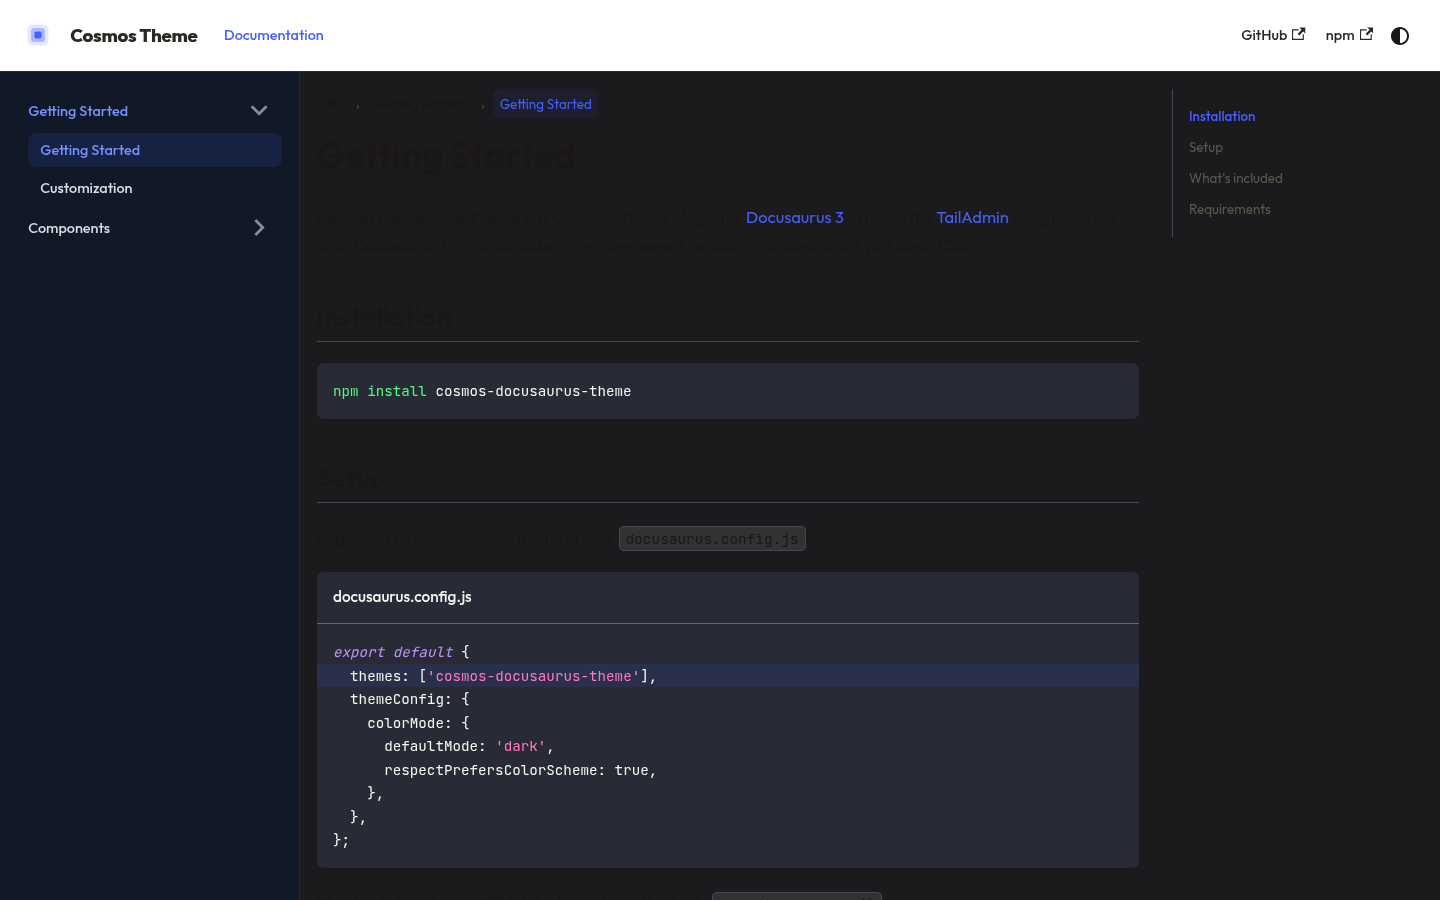
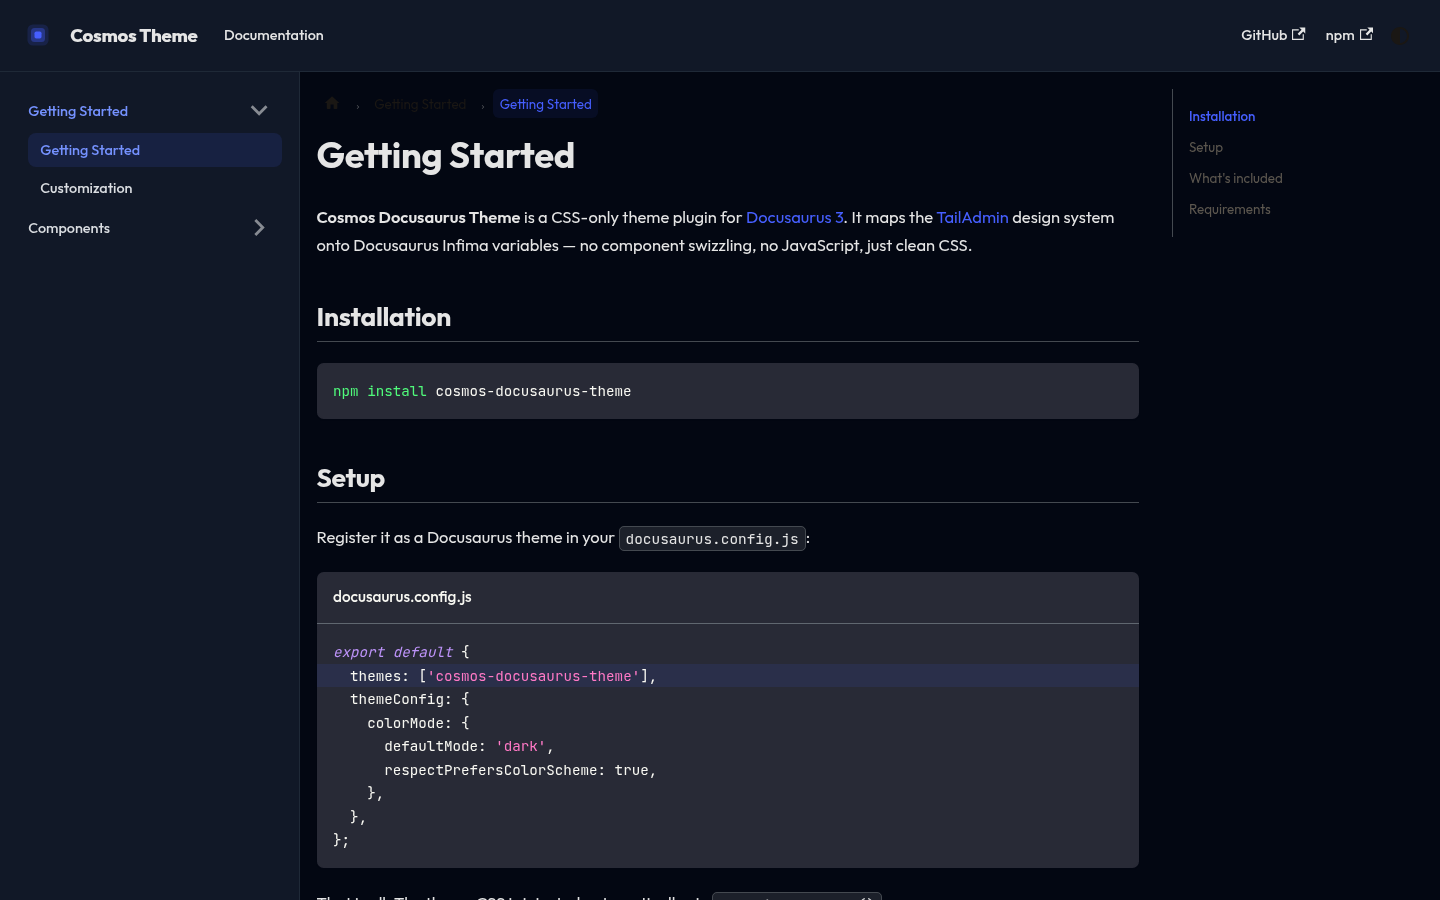
fix(dark-mode): force direct CSS on navbar — fix white header regression
CSS variables alone are unreliable for navbar background/text in Docusaurus 3
SSG builds. Add concrete property overrides as fallback:

  [data-theme='dark'] .navbar { background-color: #111827; }
  [data-theme='dark'] .navbar__link { color: #e5e5e5; }
  [data-theme='dark'] .footer { background-color: #030712; }
  [data-theme='dark'] .main-wrapper { background-color: #030712; }

All values match Rackscope Void palette (AppHeader/AppLayout dark: classes).
Bump to 1.1.1.

diff --git a/src/css/theme.css b/src/css/theme.css
@@ -176,8 +176,23 @@ html {
   background: rgb(70, 95, 255, 0.08);
 }
 
+/* Force direct properties — CSS variables alone are not reliable for navbar
+   in all Docusaurus deployment modes (SSG, CSR, file:// local builds). */
 [data-theme='dark'] .navbar {
-  border-bottom-color: #1f2937;  /* Void gray-800 */
+  background-color: #111827;   /* Void gray-900 — same as AppHeader dark:bg-gray-dark */
+  border-bottom-color: #1f2937; /* Void gray-800 */
+}
+
+[data-theme='dark'] .navbar__link {
+  color: #e5e5e5;
+}
+
+[data-theme='dark'] .navbar__brand {
+  color: #e5e5e5;
+}
+
+[data-theme='dark'] .navbar__toggle {
+  color: #e5e5e5;
 }
 
 /* ── Sidebar ─────────────────────────────────────────────────────────────── */
@@ -347,7 +362,19 @@ code {
 }
 
 [data-theme='dark'] .footer {
-  border-top-color: #1f2937;  /* Void gray-800 */
+  background-color: #030712;   /* Void gray-950 — AppLayout dark:bg-gray-950 */
+  border-top-color: #1f2937;   /* Void gray-800 */
+  color: #a3a3a3;
+}
+
+/* Force dark background on main page body — mirrors AppLayout dark:bg-gray-950 */
+[data-theme='dark'] .main-wrapper {
+  background-color: #030712;
+}
+
+/* Doc article area — keep surface color consistent */
+[data-theme='dark'] article {
+  color: #e5e5e5;
 }
 
 /* ── Pagination nav ───────────────────────────────────────────────────────── */

diff --git a/CHANGELOG.md b/CHANGELOG.md
@@ -7,6 +7,19 @@ This project adheres to [Semantic Versioning](https://semver.org/spec/v2.0.0.htm
 
 ---
 
+## [1.1.1] — 2026-03-09
+
+### Fixed
+
+- **Navbar regression**: dark mode navbar was rendering white with dark text. Root cause:
+  `--ifm-navbar-background-color` CSS variable was not reliably applied in Docusaurus 3
+  SSG/CSR builds. Fix: add direct CSS property overrides on `.navbar` and `.navbar__link`
+  instead of relying solely on CSS custom properties.
+- Dark mode navbar: `background-color: #111827` (Void gray-900) forced directly on element
+- Dark mode footer: `background-color: #030712` (Void gray-950) forced directly
+- Dark mode `.main-wrapper`: `background-color: #030712` forced directly
+- Navbar links/brand/toggle: explicit `color: #e5e5e5` in dark mode
+
 ## [1.1.0] — 2026-03-09
 
 ### Added
